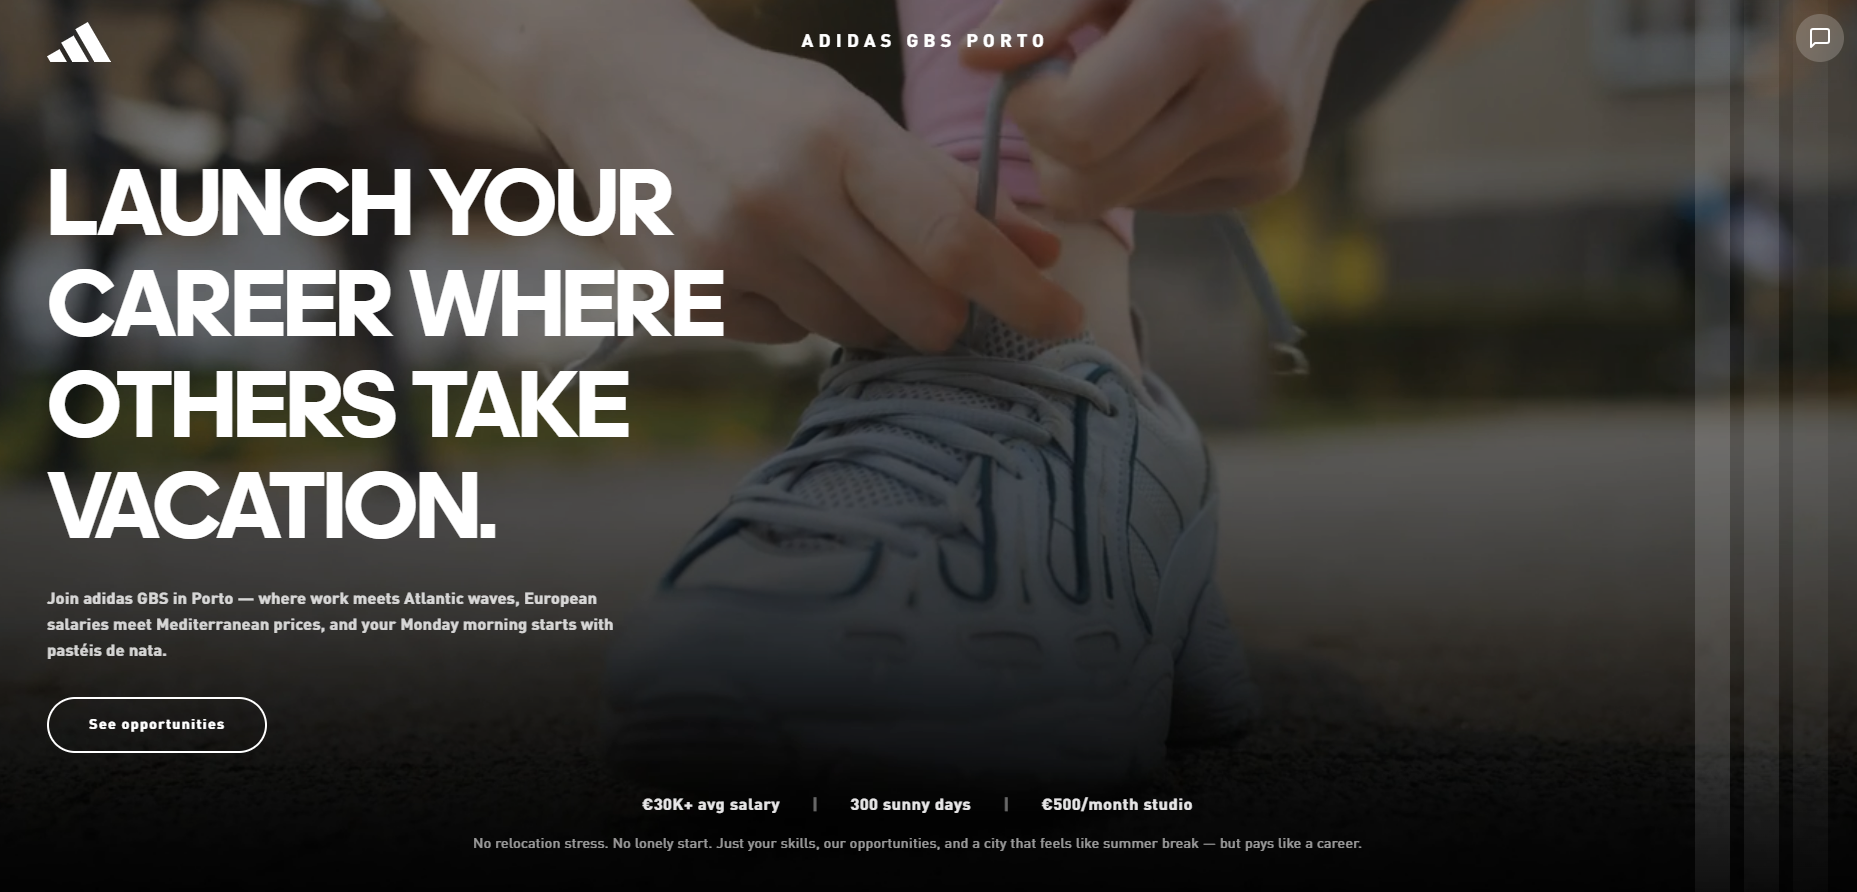
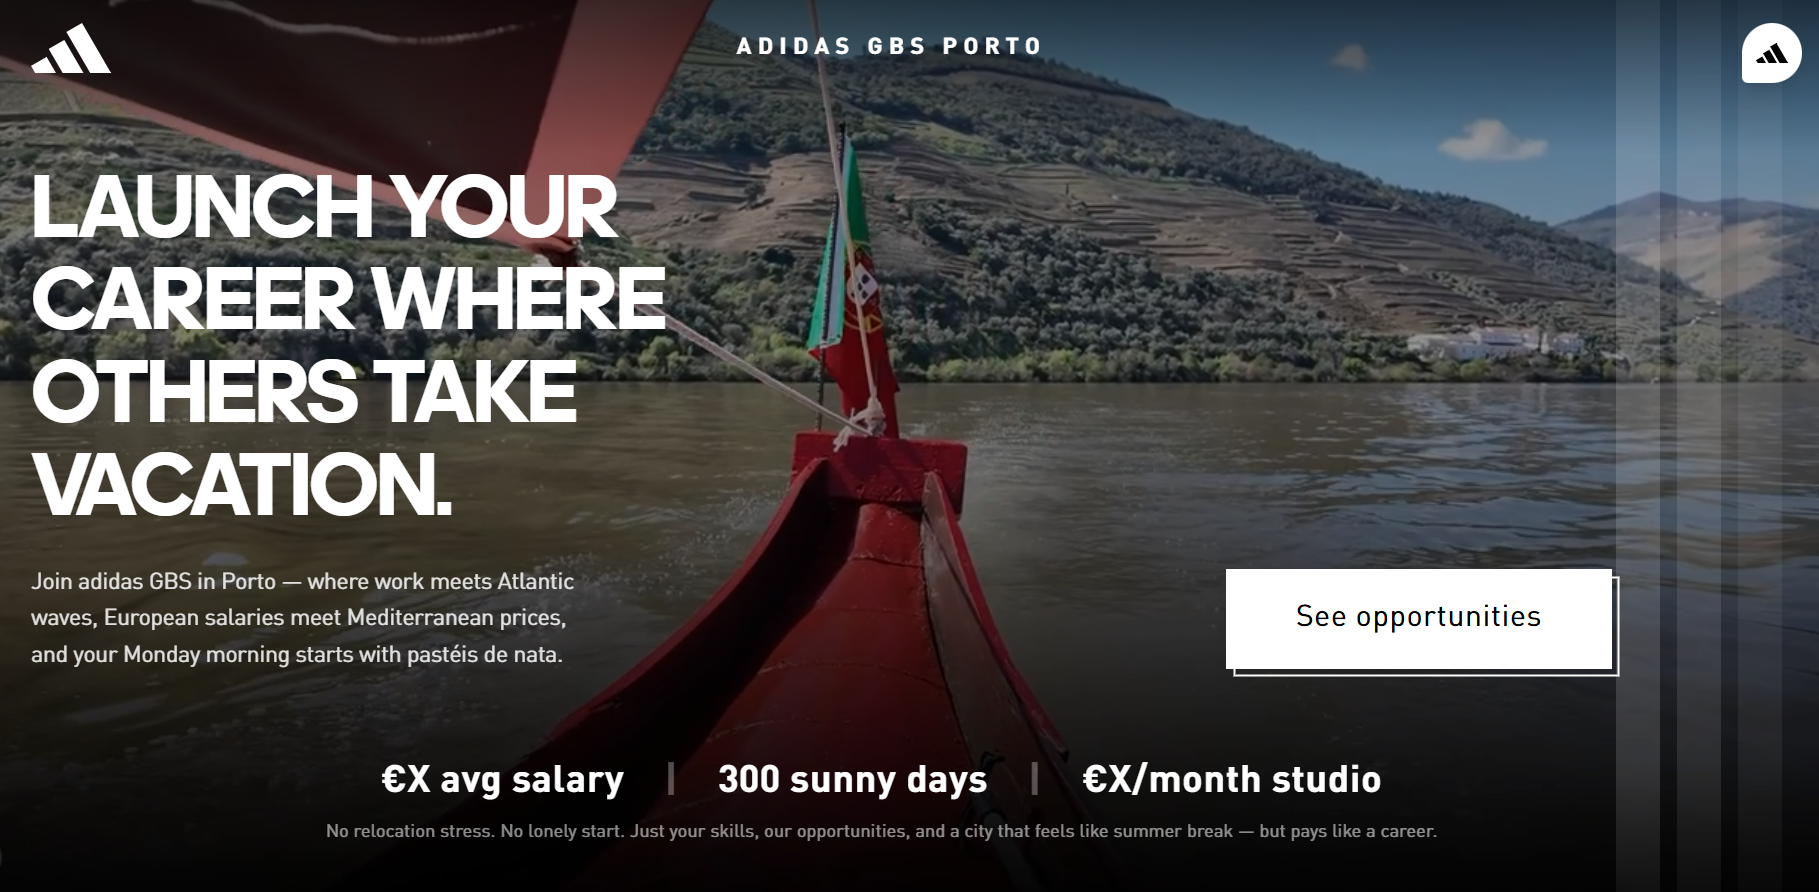
docs: update report appendix D and figures 5.2/5.9 screenshots

diff --git a/AppReport/latex-report/appendices/appendixD.tex b/AppReport/latex-report/appendices/appendixD.tex
@@ -159,7 +159,7 @@ constraints, and its output was reviewed, adapted and tested before being
 committed. The examples below are representative of that usage: each presupposes
 a design that already existed and asks only for a bounded piece of it.
 
-\begin{lstlisting}[caption={Generating a repository implementation against a port the author defined.},label={lst:dev-repo}]
+\begin{lstlisting}[caption={Generating a repository implementation against a defined port.},label={lst:dev-repo}]
 I have this port interface in the domain layer (paste of ICandidateRepository
 with its method signatures). Write the Supabase implementation in the
 infrastructure layer. Follow my existing conventions: snake_case database
